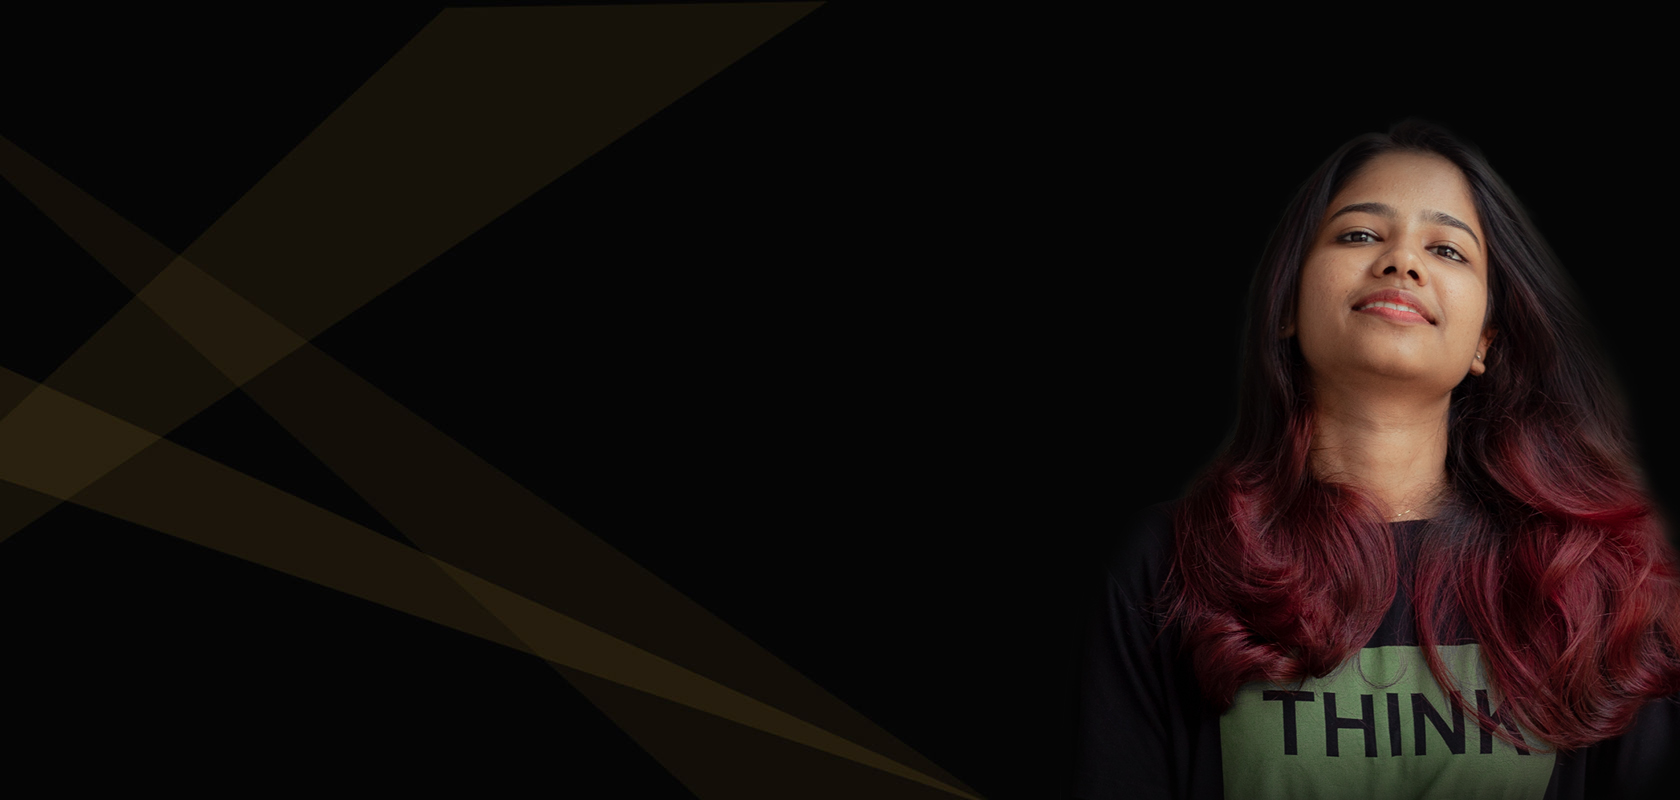
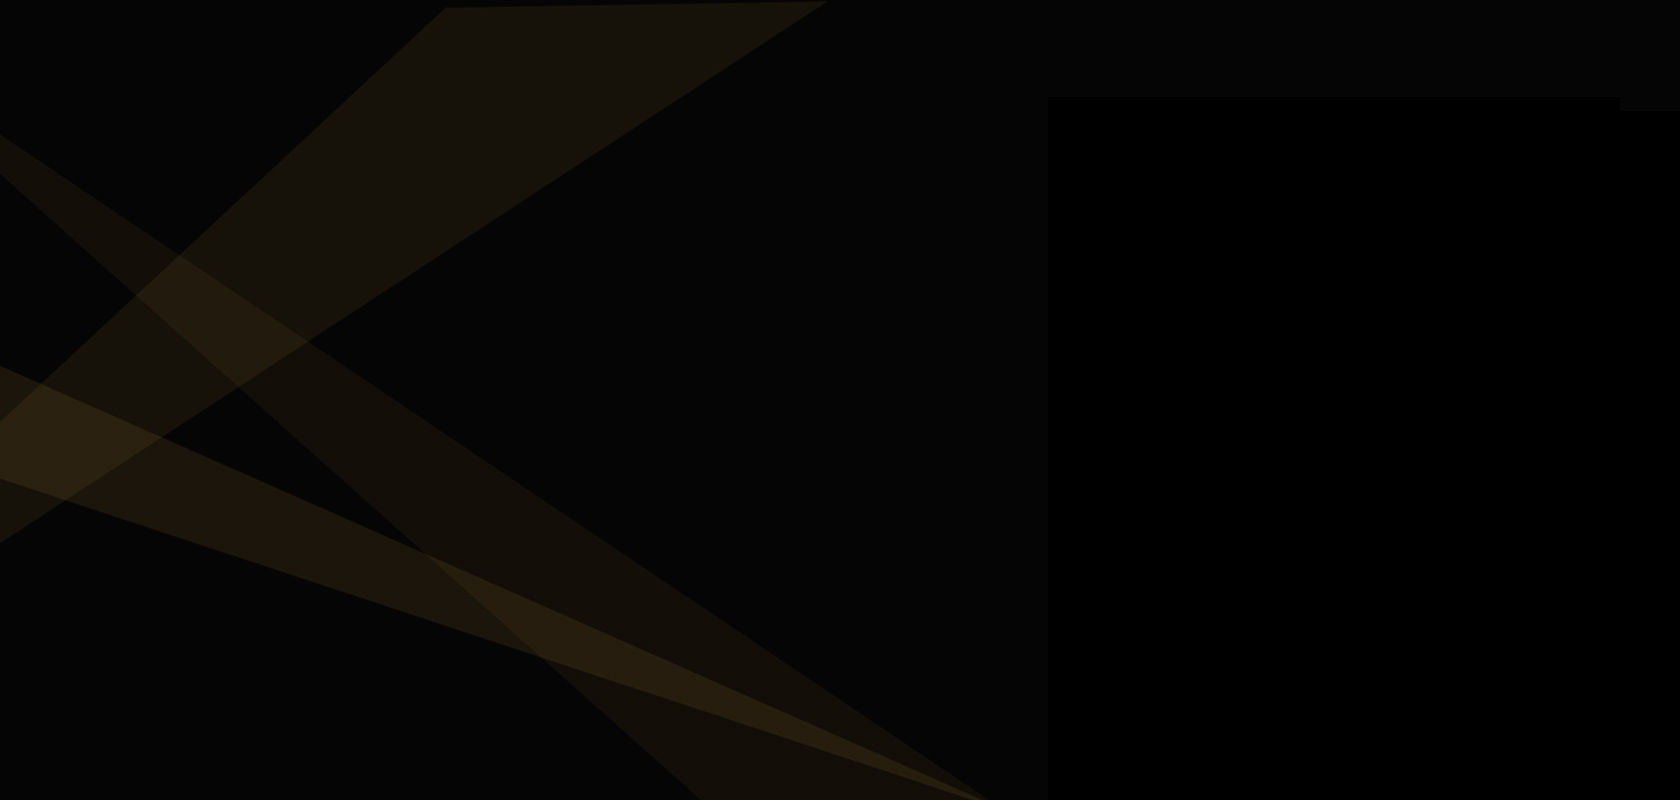
Added skills page, Updated Hero IMG.

Changed region(s): [[0.681, 0.1562, 1.0, 1.0]]

diff --git a/skills.html b/skills.html
@@ -1,0 +1,78 @@
+<!DOCTYPE html>
+<!-- Created By CodingNepal -->
+<html lang="en">
+<head>
+    <meta charset="UTF-8">
+    <meta name="viewport" content="width=device-width, initial-scale=1.0">
+    <title>Personal Portfolio Website</title>
+    <link rel="stylesheet" href="style.css">
+    <link rel="stylesheet" href="https://cdnjs.cloudflare.com/ajax/libs/font-awesome/5.15.3/css/all.min.css"/>
+    <script src="https://code.jquery.com/jquery-3.5.1.min.js"></script>
+    <script src="https://cdnjs.cloudflare.com/ajax/libs/typed.js/2.0.11/typed.min.js"></script>
+    <script src="https://cdnjs.cloudflare.com/ajax/libs/waypoints/4.0.1/jquery.waypoints.min.js"></script>
+    <script src="https://cdnjs.cloudflare.com/ajax/libs/OwlCarousel2/2.3.4/owl.carousel.min.js"></script>
+    <link rel="stylesheet" href="https://cdnjs.cloudflare.com/ajax/libs/OwlCarousel2/2.3.4/assets/owl.carousel.min.css"/>
+
+</head>
+<body>
+    <style>
+        body{
+            background-color: #111;
+            color: #fff;
+        }
+
+        .skills .title::after{
+            content: "";
+        }
+    </style>
+    <div class="scroll-up-btn">
+        <i class="fas fa-angle-up"></i>
+    </div>
+    <nav class="navbar">
+        <div class="max-width">
+            <div class="logo"><a href="#">HON<span>EY.</span></a></div>
+            <ul class="menu">
+                <li><a href="index.html#home" class="menu-btn">Home</a></li>
+                <li><a href="index.html#about" class="menu-btn">About</a></li>
+                <li><a href="index.html#services" class="menu-btn">Services</a></li>
+                <li><a href="index.html#skills" class="menu-btn">Skills</a></li>
+                <li><a href="index.html#teams" class="menu-btn">Teams</a></li>
+                <li><a href="index.html#contact" class="menu-btn">Contact</a></li>
+            </ul>
+            <div class="menu-btn">
+                <i class="fas fa-bars"></i>
+            </div>
+        </div>
+    </nav>
+
+    <!-- skills section start -->
+    <section class="skills" id="skills">
+        <div class="max-width">
+            <h2 class="title">My skills</h2>
+            <div class="skills-content">
+                <div class="column left">
+                    <div class="text">My creative skills & experiences.</div>
+                    <p>In my role at Nou Apparels, I've had the opportunity to work on a wide range of projects, further honing my design and trend analysis skills. I've also collaborated with a diverse clientele, tailoring my designs to their unique preferences and requirements. This hands-on experience has allowed me to develop a keen eye for detail and a deep understanding of the fashion market's evolving demands. My dedication to excellence and my ability to transform creative concepts into stunning, wearable pieces are the cornerstones of my design philosophy. With a track record of successful projects and a passion for staying at the forefront of the fashion industry, I am committed to delivering exceptional work in every endeavor.</p>
+                    <p>In my role at Nou Apparels, I've had the opportunity to work on a wide range of projects, further honing my design and trend analysis skills. I've also collaborated with a diverse clientele, tailoring my designs to their unique preferences and requirements. This hands-on experience has allowed me to develop a keen eye for detail and a deep understanding of the fashion market's evolving demands. My dedication to excellence and my ability to transform creative concepts into stunning, wearable pieces are the cornerstones of my design philosophy. With a track record of successful projects and a passion for staying at the forefront of the fashion industry, I am committed to delivering exceptional work in every endeavor.</p>
+                    <p>In my role at Nou Apparels, I've had the opportunity to work on a wide range of projects, further honing my design and trend analysis skills. I've also collaborated with a diverse clientele, tailoring my designs to their unique preferences and requirements. This hands-on experience has allowed me to develop a keen eye for detail and a deep understanding of the fashion market's evolving demands. My dedication to excellence and my ability to transform creative concepts into stunning, wearable pieces are the cornerstones of my design philosophy. With a track record of successful projects and a passion for staying at the forefront of the fashion industry, I am committed to delivering exceptional work in every endeavor.</p>
+                </div>
+                <div class="column right left">
+                    <p>I am a creative fashion designer with a strong determination to produce outstanding work. With years of experience in the fashion industry, I possess in-depth knowledge of current styles and trends and avidly keep abreast of the newest fashions. My skills encompass, trend forecasting, fashion consultation, sustainable practices, and event coordination, reflecting my well-rounded expertise.</p>
+                    <p>I am a creative fashion designer with a strong determination to produce outstanding work. With years of experience in the fashion industry, I possess in-depth knowledge of current styles and trends and avidly keep abreast of the newest fashions. My skills encompass, trend forecasting, fashion consultation, sustainable practices, and event coordination, reflecting my well-rounded expertise.</p>
+                    <p>I am a creative fashion designer with a strong determination to produce outstanding work. With years of experience in the fashion industry, I possess in-depth knowledge of current styles and trends and avidly keep abreast of the newest fashions. My skills encompass, trend forecasting, fashion consultation, sustainable practices, and event coordination, reflecting my well-rounded expertise.</p>
+                    <p>I am a creative fashion designer with a strong determination to produce outstanding work. With years of experience in the fashion industry, I possess in-depth knowledge of current styles and trends and avidly keep abreast of the newest fashions. My skills encompass, trend forecasting, fashion consultation, sustainable practices, and event coordination, reflecting my well-rounded expertise.</p>
+                    <p>I am a creative fashion designer with a strong determination to produce outstanding work. With years of experience in the fashion industry, I possess in-depth knowledge of current styles and trends and avidly keep abreast of the newest fashions. My skills encompass, trend forecasting, fashion consultation, sustainable practices, and event coordination, reflecting my well-rounded expertise.</p>
+                </div>
+            </div>
+        </div>
+    </section>
+
+   
+    <!-- footer section start -->
+    <footer>
+        <span>Created By <a href="https://www.codingnepalweb.com">Hanima Rajan</a> | <span class="far fa-copyright"></span> 2023 All rights reserved.</span>
+    </footer>
+
+    <script src="script.js"></script>
+</body>
+</html>

diff --git a/index.html b/index.html
@@ -20,7 +20,7 @@
     </div>
     <nav class="navbar">
         <div class="max-width">
-            <div class="logo"><a href="#">Portfo<span>lio.</span></a></div>
+            <div class="logo"><a href="#">HON<span>EY.</span></a></div>
             <ul class="menu">
                 <li><a href="#home" class="menu-btn">Home</a></li>
                 <li><a href="#about" class="menu-btn">About</a></li>
@@ -107,7 +107,7 @@
                 </div>
                 <div class="column right left">
                     <p>I am a creative fashion designer with a strong determination to produce outstanding work. With years of experience in the fashion industry, I possess in-depth knowledge of current styles and trends and avidly keep abreast of the newest fashions. My skills encompass, trend forecasting, fashion consultation, sustainable practices, and event coordination, reflecting my well-rounded expertise.</p>
-                    <a href="#">Read more</a>
+                    <a href="skills.html">Read more</a>
                 </div>
             </div>
         </div>

diff --git a/style.css b/style.css
@@ -308,6 +308,7 @@ section .title::after{
 .skills .title::after{
     content: "what i know";
 }
+
 .skills .skills-content .column{
     width: calc(50% - 30px);
 }
